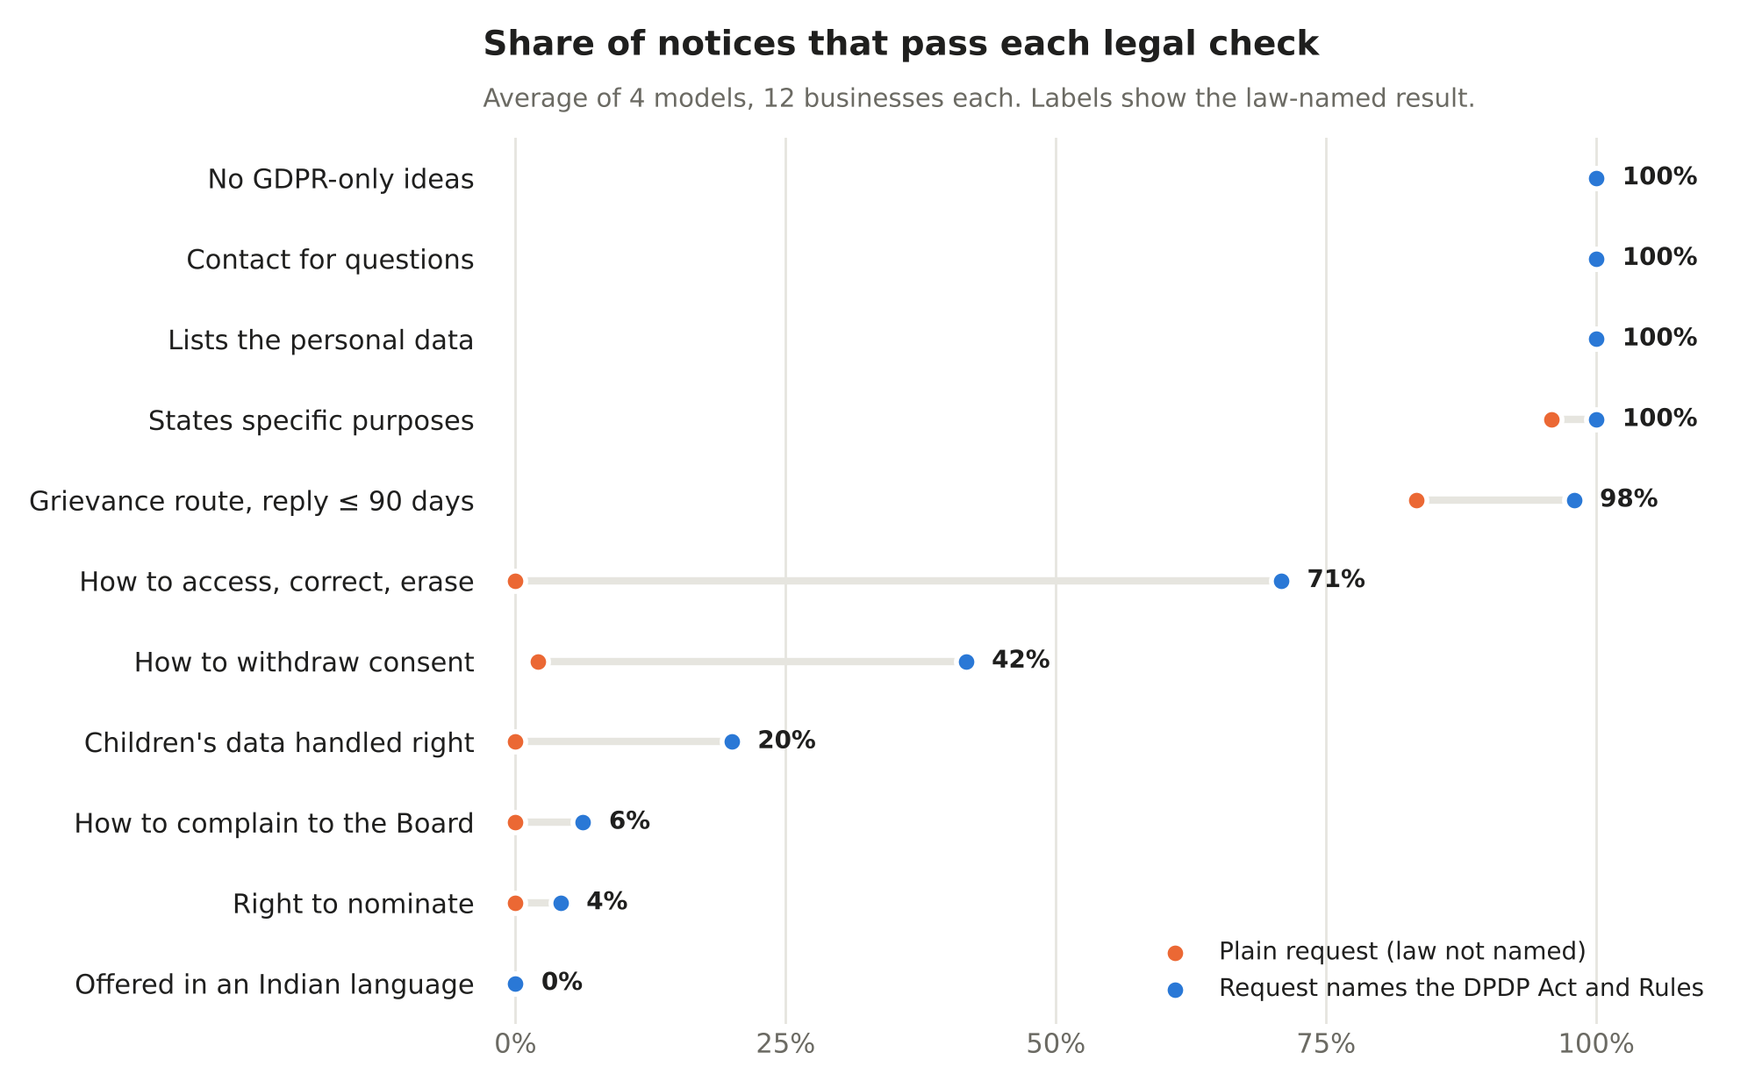
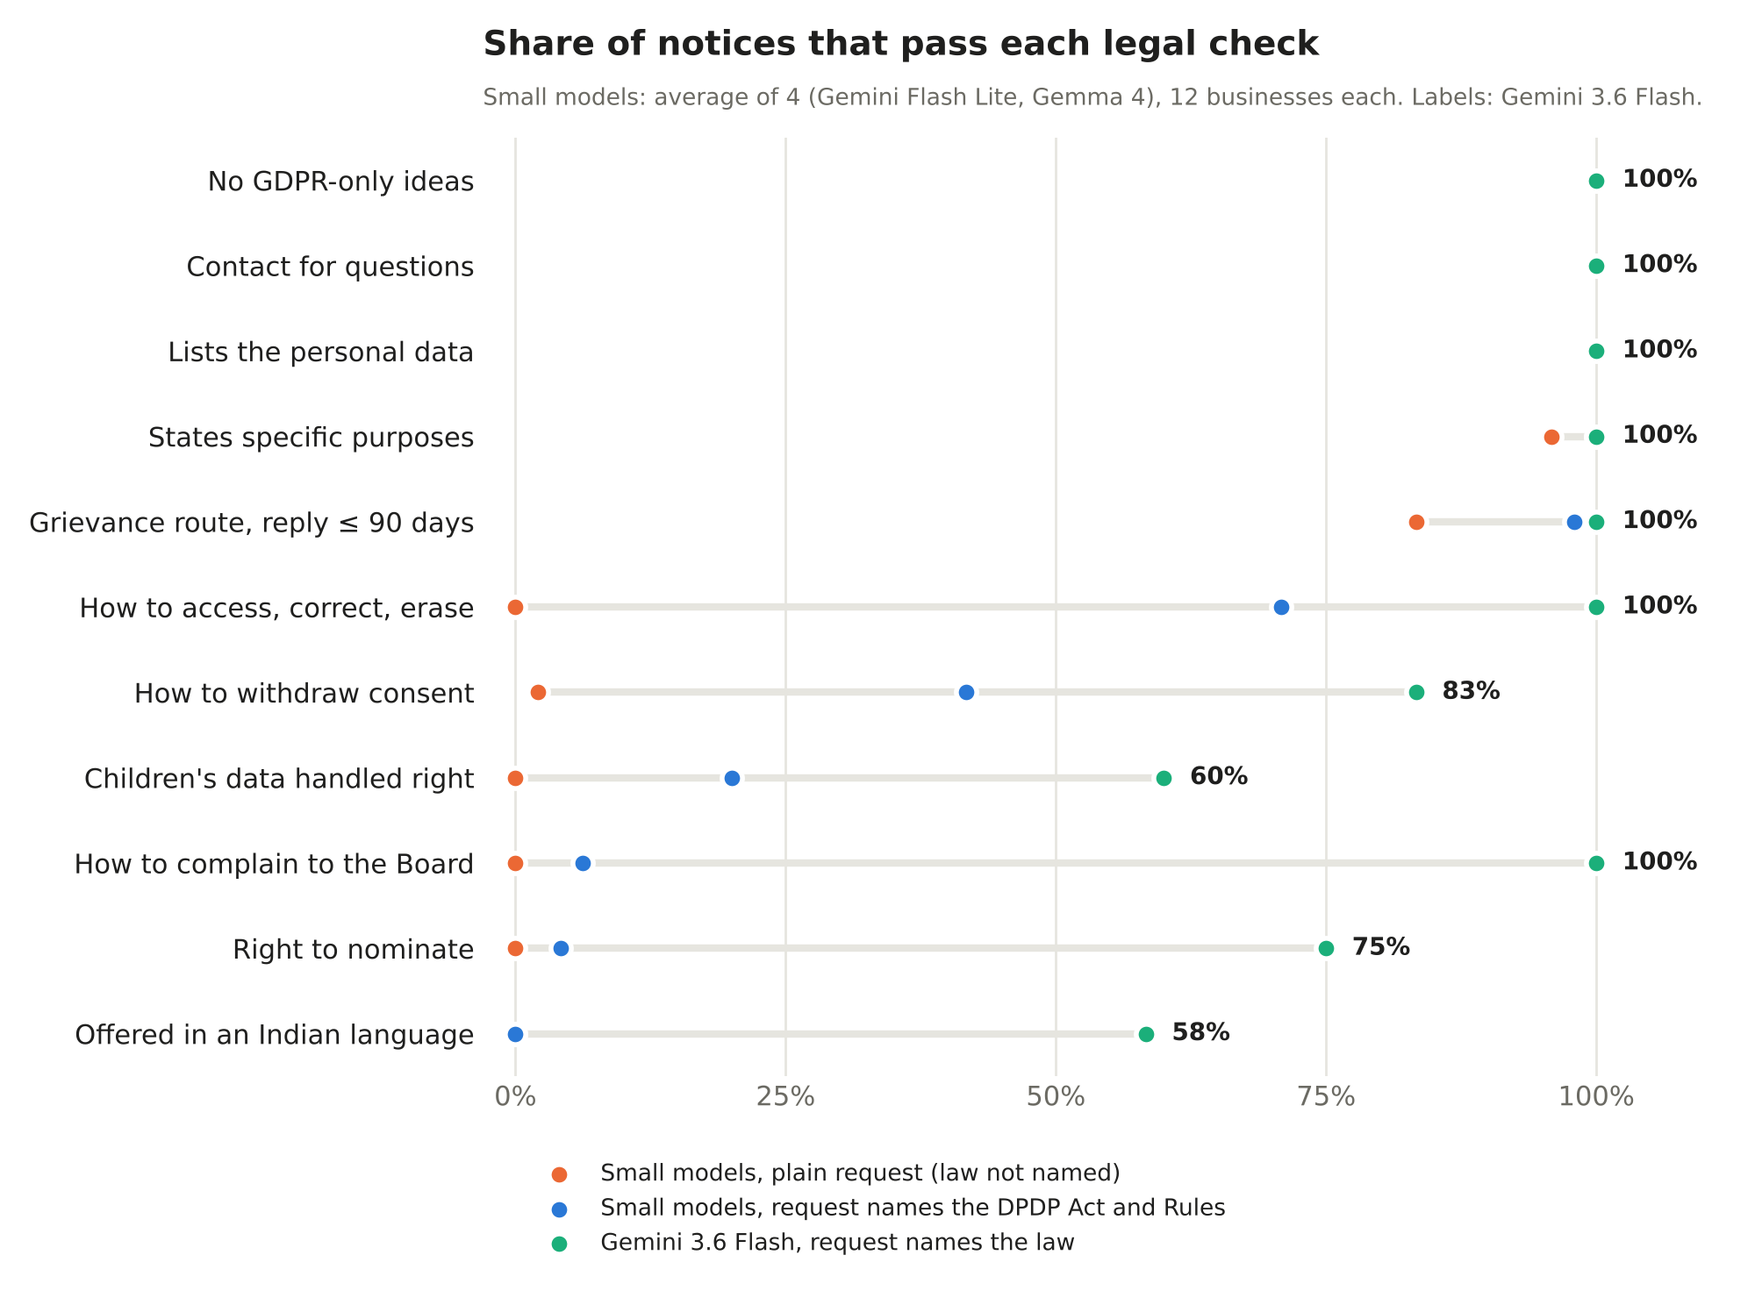
gemini-3.6-flash complete on the core set: 91% with the law named, 5 of 12 fully compliant; chart adds it as a third series; 3.8 Flash dropped (free API kept failing)
Claude-Session: https://claude.ai/code/session_01S98bwXTVVeVzegnjigAfFQ

diff --git a/docs/make_chart.py b/docs/make_chart.py
@@ -31,49 +31,44 @@ PLAIN, LAW = "#eb6834", "#2a78d6"  # categorical slots 2 and 1
 INK, MUTED, GRID = "#1f1f1e", "#6b6a63", "#e6e5df"
 
 
-def mean_per_check(rows, condition):
-    # Only models with the full core set, so a partly run model doesn't skew the average.
-    rows = [r for r in rows if r["condition"] == condition and r["n"] >= 12]
+SMALL = ("gemini-3.1-flash-lite", "gemini-3.5-flash-lite", "gemma-4-26b-a4b-it", "gemma-4-31b-it")
+BIG = "gemini-3.6-flash"
+BIG_LAW = "#1baf7a"  # categorical slot 3
+
+
+def mean_per_check(rows, condition, models):
+    rows = [r for r in rows if r["condition"] == condition and r["model"] in models and r["n"] >= 12]
     return {k: sum(r["per_check"][k] for r in rows) / len(rows) for k in LABELS}
 
 
 def main():
     core = json.loads(BOARD.read_text())["core"]
-    plain = mean_per_check(core, "plain")
-    law = mean_per_check(core, "dpdp_open")
-    order = sorted(LABELS, key=lambda k: (law[k], plain[k]))
+    plain = mean_per_check(core, "plain", SMALL)
+    law = mean_per_check(core, "dpdp_open", SMALL)
+    big = mean_per_check(core, "dpdp_open", (BIG,))
+    order = sorted(LABELS, key=lambda k: (law[k], big[k], plain[k]))
 
     plt.rcParams.update({"font.family": "DejaVu Sans", "font.size": 11})
-    fig, ax = plt.subplots(figsize=(10, 6.2), dpi=200)
+    fig, ax = plt.subplots(figsize=(10, 7.4), dpi=200)
     fig.patch.set_facecolor("white")
-    ys = range(len(order))
+    ys = list(range(len(order)))
     for y, k in enumerate(order):
-        ax.plot([plain[k] * 100, law[k] * 100], [y, y], color=GRID, lw=3, zorder=1, solid_capstyle="round")
-    ax.scatter(
-        [plain[k] * 100 for k in order],
-        ys,
-        s=70,
-        color=PLAIN,
-        zorder=3,
-        edgecolor="white",
-        linewidth=2,
-        label="Plain request (law not named)",
-    )
-    ax.scatter(
-        [law[k] * 100 for k in order],
-        ys,
-        s=70,
-        color=LAW,
-        zorder=4,
-        edgecolor="white",
-        linewidth=2,
-        label="Request names the DPDP Act and Rules",
-    )
+        vals = [plain[k] * 100, law[k] * 100, big[k] * 100]
+        ax.plot([min(vals), max(vals)], [y, y], color=GRID, lw=3, zorder=1, solid_capstyle="round")
+    series = [
+        (plain, PLAIN, "Small models, plain request (law not named)", 3),
+        (law, LAW, "Small models, request names the DPDP Act and Rules", 4),
+        (big, BIG_LAW, "Gemini 3.6 Flash, request names the law", 5),
+    ]
+    for data, color, label, z in series:
+        ax.scatter(
+            [data[k] * 100 for k in order], ys, s=70, color=color, zorder=z, edgecolor="white", linewidth=2, label=label
+        )
     for y, k in enumerate(order):
-        v = law[k] * 100
-        ax.text(v + 2.4, y, f"{v:.0f}%", va="center", ha="left", color=INK, fontsize=10, fontweight="bold")
+        v = max(plain[k], law[k], big[k]) * 100
+        ax.text(v + 2.4, y, f"{big[k] * 100:.0f}%", va="center", ha="left", color=INK, fontsize=10, fontweight="bold")
 
-    ax.set_yticks(list(ys), [LABELS[k] for k in order], color=INK)
+    ax.set_yticks(ys, [LABELS[k] for k in order], color=INK)
     ax.set_xlim(-3, 112)
     ax.set_xticks([0, 25, 50, 75, 100], ["0%", "25%", "50%", "75%", "100%"], color=MUTED)
     ax.xaxis.grid(True, color=GRID, lw=1)
@@ -87,12 +82,12 @@ def main():
     ax.text(
         0,
         1.035,
-        "Average of 4 models, 12 businesses each. Labels show the law-named result.",
+        "Small models: average of 4 (Gemini Flash Lite, Gemma 4), 12 businesses each. Labels: Gemini 3.6 Flash.",
         transform=ax.transAxes,
         color=MUTED,
-        fontsize=10.5,
+        fontsize=9.5,
     )
-    ax.legend(loc="lower right", frameon=False, fontsize=10, labelcolor=INK)
+    ax.legend(loc="upper center", bbox_to_anchor=(0.32, -0.07), ncol=1, frameon=False, fontsize=9.5, labelcolor=INK)
     fig.tight_layout()
     fig.savefig(OUT, facecolor="white")
     print(f"wrote {OUT.relative_to(ROOT)}")

diff --git a/dpdp_eval/web.py b/dpdp_eval/web.py
@@ -154,8 +154,8 @@ law asks for when something is missing.
 
 **What the eval found:** of 239 notices written by four small AI models, none passed every check. The ones most
 often missed are how to withdraw consent, how to complain to the Data Protection Board, the right to nominate
-someone, and offering the notice in an Indian language. A larger model (Gemini 3.6 Flash) does much better when
-told the law, in early results. See the *Model leaderboard* tab.
+someone, and offering the notice in an Indian language. A larger model, Gemini 3.6 Flash, scored 91% when told the
+law, and 5 of its 12 notices passed every check. See the *Model leaderboard* tab.
 
 <small>No notice to hand? Pick one under *Or try an example*.</small>"""
 

diff --git a/README.md b/README.md
@@ -25,15 +25,15 @@ YC's Fall 2026 Requests for Startups asks for [**AI-Native Compliance Infrastruc
 
 Across **239 notices** from the four small models (Gemini 3.1 and 3.5 Flash Lite, Gemma 4 26B and 31B), **not one passed every check**. The best met 9 of 11.
 
-**Update, 10 Nov 2026: a larger model does much better.** `gemini-3.6-flash` (not a Lite model) has now written notices for 10 of the 12 core businesses. With the law named it scored **93%** (95% CI 88–96%), and **4 of its 10 notices pass every check**, the first in the eval to do so (a bus-booking app, an insurance broker, a home-food delivery app and a public library). Its notices name the Board, the right to nominate and the Eighth Schedule languages, which the small models almost never did. Without the law named it scored 47%, the same as the others, so the size of the model matters only once it is told which law applies. The judge is from the same model family, so treat this with some care. The last 2 businesses come next; `gemini-3.8-flash` has been too busy on the free API (503 and 504 errors) to add yet.
+**A larger model does much better (added 9 to 11 Nov 2026).** `gemini-3.6-flash` (not a Lite model) wrote notices for all 12 core businesses. With the law named it scored **91%** (95% CI 84–96%), and **5 of its 12 notices pass every check**, the only ones in the eval that do (a bus-booking app, an insurance broker, a home-food delivery app, a public library and a gym). It names the Board in every notice, the right to nominate in 75% and the Eighth Schedule languages in 58%, which the small models almost never did. Its weakest spot is still children's data (60%). Without the law named it scored 47%, the same as the others, so a bigger model only helps once it is told which law applies. The judge is from the same model family, so treat this with some care. `gemini-3.8-flash` was meant to be added too, but on three days running the free API answered 503 and 504 errors and then reported the daily quota used up; it produced one notice, which is in the results files but not in the tables below.
 
-<p align="center"><img src="docs/checks-chart.png" width="760" alt="Dot chart of the share of notices passing each of the 11 checks. With a plain request, withdrawal, rights, the Board, nomination, language and children are all near 0%. Naming the law lifts rights to 71% and withdrawal to 42%, children to 20%, the Board to 6%, nomination to 4%, and language stays at 0%."/></p>
+<p align="center"><img src="docs/checks-chart.png" width="760" alt="Dot chart of the share of notices passing each of the 11 checks. Small models with a plain request are near 0% on withdrawal, rights, the Board, nomination, language and children. Naming the law lifts the small models to 71% on rights and 42% on withdrawal but leaves the Board, nomination and language near 0%. Gemini 3.6 Flash with the law named reaches 100% on rights and the Board, 83% on withdrawal, 75% on nomination, 60% on children and 58% on language."/></p>
 
 - **Without being told about the law, every model scored 45–48%** (the small four, and 3.6 Flash). The notices list the data, the purposes and a contact, and that is about it: almost none say how to withdraw consent or how to use the rights to access, correct and erase.
 - **Naming the DPDP Act and Rules helps the small models, but only up to a point: 56–65%.** Withdrawal and the rights improve a lot for three of the four. Three duties stay almost untouched: the option to read the notice in an Indian language (**0%** for all four), the right to nominate someone (**0–8%**), and how to complain to the Data Protection Board (**0–17%**). With children's data, the most a model managed was 40%.
 - **One line in my own prompt was hiding this.** My first "names the law" prompt also said *"use only the facts below; don't invent other data or purposes"*. Grepping the outputs suggested that models read it as "leave out anything not in the facts", including the Board and nomination. With that line, scores fall back to 47–50%, the same as not naming the law at all. So the main result uses the prompt without it, and the old one is kept as a comparison.
 
-Among the four models with the full core set, the best is **`gemini-3.5-flash-lite` at 65%** (95% CI 59–70%) when the law is named. The differences between them are small compared with the gap to full compliance, and Flash Lite is also the judge, so treat its first place with care: its confidence interval overlaps the next two models. The early 3.6 Flash result above suggests model size matters more than which small model you pick.
+Best model: **`gemini-3.6-flash` at 91%** when the law is named. Among the four small models the best is `gemini-3.5-flash-lite` at 65% (95% CI 59–70%), but the differences between them are small, and Flash Lite is also the judge, so treat its place with care: its confidence interval overlaps the next two. Model size matters far more than which small model you pick.
 
 
 ## What it measures
@@ -68,7 +68,7 @@ An LLM judge is only useful if it agrees with the right answer. So before judgin
 
 1. **Synthetic notices with known answers** (`dpdp_eval/data/validation/`). Notices are built from sections. For each check we pick a compliant section or a realistic mistake: a vague data list, a 120-day reply period, "the relevant supervisory authority", withdrawal only by registered post, children defined as under 13, personalised ads for children, and so on. The correct verdicts follow from the choices. The set is split by business: **dev** (4 businesses, 20 notices) was used to pick the judge, **test** (8 businesses, 40 notices) was held out.
 2. **Real notices, hand-labelled** (`dpdp_eval/data/validation/real_labels.jsonl`). Real model notices were labelled by hand. Most were labelled before any judge saw them; the last 7 were labelled after a judge had run, without looking at its verdicts (see the commit history and [the labelling rules](docs/labelling.md), which also disclose two corrections).
-3. **Quote checking.** For every check the judge must quote the line it relied on. The code then confirms the quote exists in the notice, which catches a judge inventing support for a "pass". In the main run, 2 of the 1,141 quoted passes were not found word for word in their notice (paraphrases). An early version of this check wrongly flagged bulleted lists quoted as one line; it was fixed and re-run on the stored verdicts with `python -m dpdp_eval recheck-quotes`.
+3. **Quote checking.** For every check the judge must quote the line it relied on. The code then confirms the quote exists in the notice, which catches a judge inventing support for a "pass". In the main run, 2 of the 1,167 quoted passes were not found word for word in their notice (paraphrases). An early version of this check wrongly flagged bulleted lists quoted as one line; it was fixed and re-run on the stored verdicts with `python -m dpdp_eval recheck-quotes`.
 
 | Judge | Synthetic dev (20 notices) | Synthetic held-out test (40 notices) | Real notices, hand-labelled (23) |
 |---|---|---|---|
@@ -86,27 +86,27 @@ Flash Lite was chosen because it was the most accurate judge that finished every
 
 ## Leaderboard
 
-**Core set: 12 businesses, every model** (`gemini-3.6-flash` has 10 so far and is being filled in). Score = share of applicable checks passed. 95% CI from a bootstrap over businesses. Columns on the right are pass rates per check.
+**Core set: 12 businesses, every model.** Score = share of applicable checks passed. 95% CI from a bootstrap over businesses. Columns on the right are pass rates per check.
 
 **Prompt: plain request (no law named)**
 
 | model | notices | score | 95% CI | fully compliant | data | purpose | withdraw | rights | nominate | grievance | Board | contact | language | no GDPR | children |
 |---|---|---|---|---|---|---|---|---|---|---|---|---|---|---|---|
 | `gemini-3.1-flash-lite` | 12 | **48%** | 46%–50% | 0% | 100% | 100% | 8% | 0% | 0% | 92% | 0% | 100% | 0% | 100% | 0% |
+| `gemini-3.6-flash` | 12 | **47%** | 46%–49% | 0% | 100% | 92% | 0% | 0% | 0% | 100% | 0% | 100% | 0% | 100% | 0% |
 | `gemini-3.5-flash-lite` | 12 | **47%** | 44%–49% | 0% | 100% | 100% | 0% | 0% | 0% | 83% | 0% | 100% | 0% | 100% | 0% |
 | `gemma-4-26b-a4b-it` | 12 | **46%** | 43%–48% | 0% | 100% | 92% | 0% | 0% | 0% | 83% | 0% | 100% | 0% | 100% | 0% |
 | `gemma-4-31b-it` | 12 | **45%** | 42%–48% | 0% | 100% | 92% | 0% | 0% | 0% | 75% | 0% | 100% | 0% | 100% | 0% |
-| `gemini-3.6-flash` (partial: 10 of 12) | 10 | **47%** | 45%–49% | 0% | 100% | 90% | 0% | 0% | 0% | 100% | 0% | 100% | 0% | 100% | 0% |
 
 **Prompt: request names the DPDP Act and Rules**
 
 | model | notices | score | 95% CI | fully compliant | data | purpose | withdraw | rights | nominate | grievance | Board | contact | language | no GDPR | children |
 |---|---|---|---|---|---|---|---|---|---|---|---|---|---|---|---|
+| `gemini-3.6-flash` | 12 | **91%** | 84%–96% | 42% | 100% | 100% | 83% | 100% | 75% | 100% | 100% | 100% | 58% | 100% | 60% |
 | `gemini-3.5-flash-lite` | 12 | **65%** | 59%–70% | 0% | 100% | 100% | 58% | 75% | 8% | 100% | 17% | 100% | 0% | 100% | 40% |
 | `gemma-4-31b-it` | 12 | **61%** | 58%–63% | 0% | 100% | 100% | 50% | 83% | 0% | 100% | 0% | 100% | 0% | 100% | 0% |
 | `gemini-3.1-flash-lite` | 12 | **60%** | 54%–65% | 0% | 100% | 100% | 58% | 67% | 8% | 92% | 0% | 100% | 0% | 100% | 0% |
 | `gemma-4-26b-a4b-it` | 12 | **56%** | 52%–60% | 0% | 100% | 100% | 0% | 58% | 0% | 100% | 8% | 100% | 0% | 100% | 40% |
-| `gemini-3.6-flash` (partial: 10 of 12) | 10 | **93%** | 88%–96% | 40% | 100% | 100% | 90% | 100% | 80% | 100% | 100% | 100% | 60% | 100% | 75% |
 
 **Prompt: names the law and adds 'use only the facts below' (comparison)**
 
@@ -152,7 +152,7 @@ Every model call is appended to a JSONL file as soon as it returns, so a run tha
 ## Limits (please read)
 
 - **Not legal advice.** It checks the minimum content the Act and Rules require in a notice, as read by the author. Courts and the Data Protection Board have not interpreted these rules yet.
-- **Small and synthetic.** 24 made-up businesses, and only the models a free Gemini API key can reach (Gemini 3.1 and 3.5 Flash Lite, and open-weight Gemma 4; Gemini 3.6 and 3.8 Flash allow only 20 requests a day, so they are being added to the core set a little at a time). Frontier "Pro" models are not on the free tier, so they aren't here.
+- **Small and synthetic.** 24 made-up businesses, and only the models a free Gemini API key can reach (Gemini 3.1 and 3.5 Flash Lite, and open-weight Gemma 4; Gemini 3.6 Flash allows only 20 requests a day, so it has the 12-business core set only, and 3.8 Flash could not be run). Frontier "Pro" models are not on the free tier, so they aren't here.
 - **The judge is a Google model judging Google models.** Self-preference is a known LLM-judge bias. The hand-labelled real notices and a second judge from a different model family (Gemma, open weights) are there to show how much it matters; see the judge table.
 - **The hand labels were made by Claude** (the AI that helped build this) under the rules in `docs/labelling.md`, written before the judges ran. No lawyer has checked them. Even two lawyers would disagree on some borderline cases, such as whether "manage your settings" counts as a way to withdraw consent.
 - **The synthetic judge-test set is easy.** It is templated, so near-perfect scores on it mean little alone. The real-notice numbers matter more.

diff --git a/dpdp_eval/data/leaderboard.md b/dpdp_eval/data/leaderboard.md
@@ -9,20 +9,21 @@ Score = share of applicable checks passed (10, or 11 if the business has users u
 | model | notices | score | 95% CI | fully compliant | data | purpose | withdraw | rights | nominate | grievance | Board | contact | language | no GDPR | children |
 |---|---|---|---|---|---|---|---|---|---|---|---|---|---|---|---|
 | `gemini-3.1-flash-lite` | 12 | **48%** | 46%–50% | 0% | 100% | 100% | 8% | 0% | 0% | 92% | 0% | 100% | 0% | 100% | 0% |
+| `gemini-3.6-flash` | 12 | **47%** | 46%–49% | 0% | 100% | 92% | 0% | 0% | 0% | 100% | 0% | 100% | 0% | 100% | 0% |
 | `gemini-3.5-flash-lite` | 12 | **47%** | 44%–49% | 0% | 100% | 100% | 0% | 0% | 0% | 83% | 0% | 100% | 0% | 100% | 0% |
 | `gemma-4-26b-a4b-it` | 12 | **46%** | 43%–48% | 0% | 100% | 92% | 0% | 0% | 0% | 83% | 0% | 100% | 0% | 100% | 0% |
 | `gemma-4-31b-it` | 12 | **45%** | 42%–48% | 0% | 100% | 92% | 0% | 0% | 0% | 75% | 0% | 100% | 0% | 100% | 0% |
-| `gemini-3.6-flash` (partial: 10 of 12) | 10 | **47%** | 45%–49% | 0% | 100% | 90% | 0% | 0% | 0% | 100% | 0% | 100% | 0% | 100% | 0% |
+| `gemini-3.8-flash` (partial: 1 of 12) | 1 | **40%** | 40%–40% | 0% | 100% | 100% | 0% | 0% | 0% | 0% | 0% | 100% | 0% | 100% | – |
 
 **Prompt: request names the DPDP Act and Rules**
 
 | model | notices | score | 95% CI | fully compliant | data | purpose | withdraw | rights | nominate | grievance | Board | contact | language | no GDPR | children |
 |---|---|---|---|---|---|---|---|---|---|---|---|---|---|---|---|
+| `gemini-3.6-flash` | 12 | **91%** | 84%–96% | 42% | 100% | 100% | 83% | 100% | 75% | 100% | 100% | 100% | 58% | 100% | 60% |
 | `gemini-3.5-flash-lite` | 12 | **65%** | 59%–70% | 0% | 100% | 100% | 58% | 75% | 8% | 100% | 17% | 100% | 0% | 100% | 40% |
 | `gemma-4-31b-it` | 12 | **61%** | 58%–63% | 0% | 100% | 100% | 50% | 83% | 0% | 100% | 0% | 100% | 0% | 100% | 0% |
 | `gemini-3.1-flash-lite` | 12 | **60%** | 54%–65% | 0% | 100% | 100% | 58% | 67% | 8% | 92% | 0% | 100% | 0% | 100% | 0% |
 | `gemma-4-26b-a4b-it` | 12 | **56%** | 52%–60% | 0% | 100% | 100% | 0% | 58% | 0% | 100% | 8% | 100% | 0% | 100% | 40% |
-| `gemini-3.6-flash` (partial: 10 of 12) | 10 | **93%** | 88%–96% | 40% | 100% | 100% | 90% | 100% | 80% | 100% | 100% | 100% | 60% | 100% | 75% |
 
 **Prompt: names the law and adds 'use only the facts below' (comparison)**
 

diff --git a/results/leaderboard-gemini-3.5-flash-lite.md b/results/leaderboard-gemini-3.5-flash-lite.md
@@ -9,20 +9,21 @@ Score = share of applicable checks passed (10, or 11 if the business has users u
 | model | notices | score | 95% CI | fully compliant | data | purpose | withdraw | rights | nominate | grievance | Board | contact | language | no GDPR | children |
 |---|---|---|---|---|---|---|---|---|---|---|---|---|---|---|---|
 | `gemini-3.1-flash-lite` | 12 | **48%** | 46%–50% | 0% | 100% | 100% | 8% | 0% | 0% | 92% | 0% | 100% | 0% | 100% | 0% |
+| `gemini-3.6-flash` | 12 | **47%** | 46%–49% | 0% | 100% | 92% | 0% | 0% | 0% | 100% | 0% | 100% | 0% | 100% | 0% |
 | `gemini-3.5-flash-lite` | 12 | **47%** | 44%–49% | 0% | 100% | 100% | 0% | 0% | 0% | 83% | 0% | 100% | 0% | 100% | 0% |
 | `gemma-4-26b-a4b-it` | 12 | **46%** | 43%–48% | 0% | 100% | 92% | 0% | 0% | 0% | 83% | 0% | 100% | 0% | 100% | 0% |
 | `gemma-4-31b-it` | 12 | **45%** | 42%–48% | 0% | 100% | 92% | 0% | 0% | 0% | 75% | 0% | 100% | 0% | 100% | 0% |
-| `gemini-3.6-flash` (partial: 10 of 12) | 10 | **47%** | 45%–49% | 0% | 100% | 90% | 0% | 0% | 0% | 100% | 0% | 100% | 0% | 100% | 0% |
+| `gemini-3.8-flash` (partial: 1 of 12) | 1 | **40%** | 40%–40% | 0% | 100% | 100% | 0% | 0% | 0% | 0% | 0% | 100% | 0% | 100% | – |
 
 **Prompt: request names the DPDP Act and Rules**
 
 | model | notices | score | 95% CI | fully compliant | data | purpose | withdraw | rights | nominate | grievance | Board | contact | language | no GDPR | children |
 |---|---|---|---|---|---|---|---|---|---|---|---|---|---|---|---|
+| `gemini-3.6-flash` | 12 | **91%** | 84%–96% | 42% | 100% | 100% | 83% | 100% | 75% | 100% | 100% | 100% | 58% | 100% | 60% |
 | `gemini-3.5-flash-lite` | 12 | **65%** | 59%–70% | 0% | 100% | 100% | 58% | 75% | 8% | 100% | 17% | 100% | 0% | 100% | 40% |
 | `gemma-4-31b-it` | 12 | **61%** | 58%–63% | 0% | 100% | 100% | 50% | 83% | 0% | 100% | 0% | 100% | 0% | 100% | 0% |
 | `gemini-3.1-flash-lite` | 12 | **60%** | 54%–65% | 0% | 100% | 100% | 58% | 67% | 8% | 92% | 0% | 100% | 0% | 100% | 0% |
 | `gemma-4-26b-a4b-it` | 12 | **56%** | 52%–60% | 0% | 100% | 100% | 0% | 58% | 0% | 100% | 8% | 100% | 0% | 100% | 40% |
-| `gemini-3.6-flash` (partial: 10 of 12) | 10 | **93%** | 88%–96% | 40% | 100% | 100% | 90% | 100% | 80% | 100% | 100% | 100% | 60% | 100% | 75% |
 
 **Prompt: names the law and adds 'use only the facts below' (comparison)**
 
